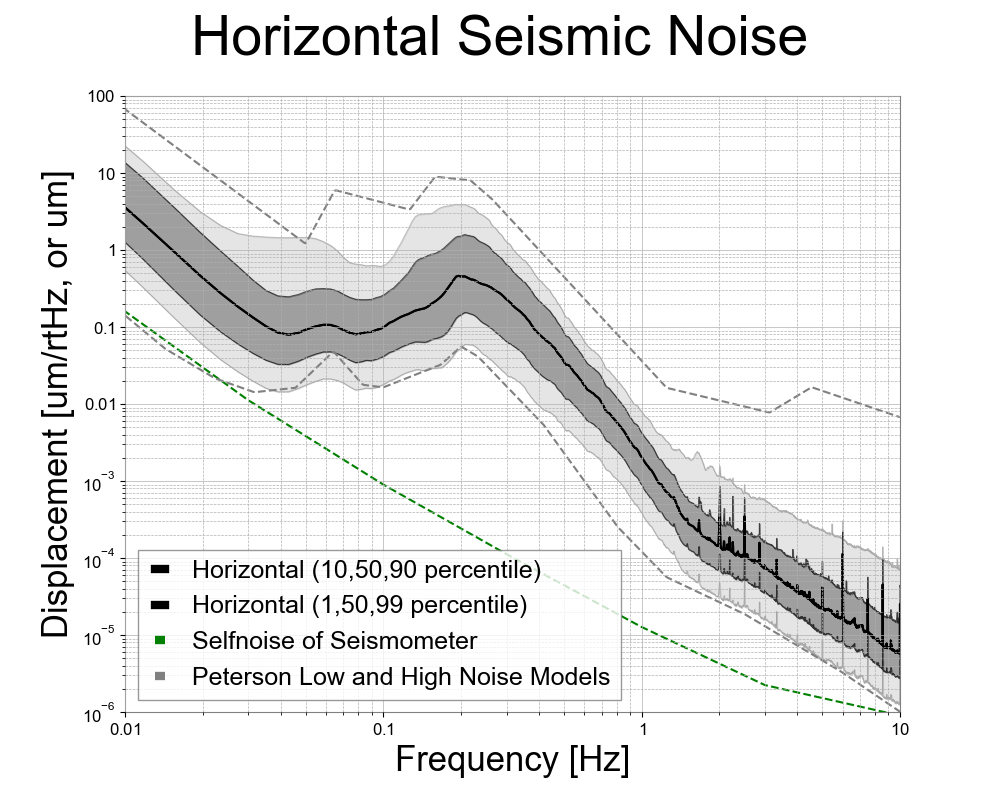
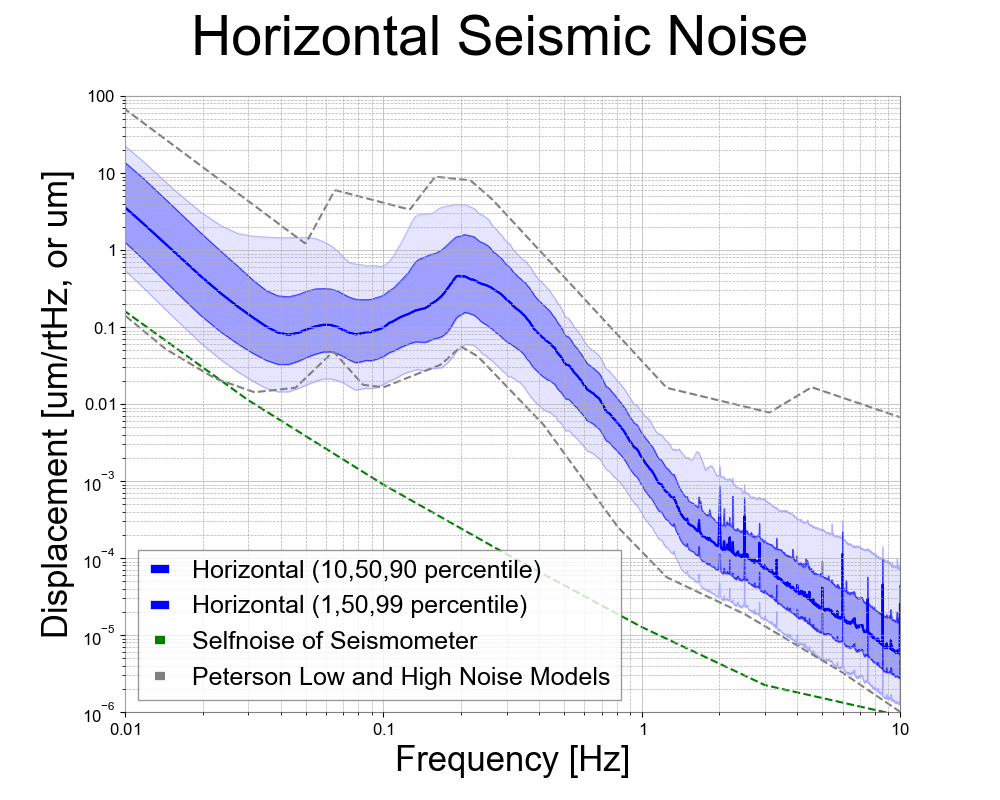
Update

Changed region(s): [[0.124, 0.1875, 0.899, 0.875], [0.155, 0.75, 0.186, 0.7812], [0.155, 0.6875, 0.186, 0.7188]]

diff --git a/ugm/seismicnoise/main2_seismicnoise.py b/ugm/seismicnoise/main2_seismicnoise.py
@@ -3,18 +3,33 @@ import matplotlib.pyplot as plt
 from gwpy.frequencyseries import FrequencySeries
 from gwpy.spectrogram import Spectrogram
 from miyopy.utils.trillium import Trillium
-from obspy.signal.spectral_estimation import get_nhnm, get_nlnm
 from gwpy.types.array2d import Array2D
 
 tr120 = Trillium('120QA')
 v2vel = tr120.v2vel    
 
+#------------------------------------------------------------
+def peterson_noise_model(unit='um'):
+    ''' Return spectral density of the new seismic model of 
+    Peterson using Obspy package.
 
-def peterson_noise_model(unit='um/sec'):
-    '''
-    Return 
+    This function just converts spectral density as a 
+    function of frequencies from a function of period and 
+    also changes unit of the spectral acording to given 
+    option.
     
+    Parameters
+    ----------
+    unit : `str`, optional
+        default is um.
+
+    Returns
+    -------
+    val : list of `list`
+        return the low noise model and the high noise model.
+
     '''
+    from obspy.signal.spectral_estimation import get_nhnm, get_nlnm    
     lt, ldb = get_nlnm()
     ht, hdb = get_nhnm()
     lfreq, lacc = 1./lt, 10**(ldb/20)*1e6
@@ -47,7 +62,6 @@ def _percentile(axis,pctl=50,unit='um',suffix='',_dir='LongTerm_gauss',**kwargs)
         raise ValueError('!!1')
     return asd
 
-
 def percentile(axis,**kwargs):
     if axis == 'H':
         x = _percentile('X',**kwargs)
@@ -58,24 +72,44 @@ def percentile(axis,**kwargs):
     else:
         raise ValueError('!!!')
 
+def mean(axis,**kwargs):
+    if axis == 'H':
+        x = _mean('X',**kwargs)
+        y = _mean('Y',**kwargs)
+        return  (x**2 + y**2)**0.5        
+    elif axis in ['X','Y','Z']:
+        return _mean(axis,**kwargs)
+    else:
+        raise ValueError('!!!')
+
+    
 def huge(axis,**kwargs):
     h01 = percentile(axis,pctl=1 ,**kwargs)
     h10 = percentile(axis,pctl=10,**kwargs)
     h50 = percentile(axis,pctl=50,**kwargs)
     h90 = percentile(axis,pctl=90,**kwargs)
     h99 = percentile(axis,pctl=99,**kwargs)
-    return h01,h10,h50,h90,h99
+    h   = percentile(axis,pctl='mean',**kwargs)
+    return h01,h10,h50,h90,h99,h
     
-def hoge(plot_v=False,plot_99=False,unit='um',peterson=True,plot_selfnoise=True,plot_rms=False,plot_h=False,fname_suffix='',day=False,night=False,**kwargs):
+def hoge(plot_v=False,plot_99=False,unit='um',peterson=True,plot_selfnoise=True,plot_rms=False,plot_h=False,fname_suffix='',day=False,night=False,season=False,**kwargs):
     #
     kwargs['unit'] = unit
     kwargs['suffix'] = '1211817600_1245372032'
-    h01,h10,h50,h90,h99 = huge('H',_dir='LongTerm_gauss',**kwargs)
-    z01,z10,z50,z90,z99 = huge('Z',_dir='LongTerm_gauss',**kwargs)
-    h01_n,h10_n,h50_n,h90_n,h99_n = huge('H',_dir='LongTerm_gauss_night',**kwargs)
-    z01_n,z10_n,z50_n,z90_n,z99_n = huge('Z',_dir='LongTerm_gauss_night',**kwargs)
-    h01_d,h10_d,h50_d,h90_d,h99_d = huge('H',_dir='LongTerm_gauss_day',**kwargs)
-    z01_d,z10_d,z50_d,z90_d,z99_d = huge('Z',_dir='LongTerm_gauss_day',**kwargs)        
+    h01,h10,h50,h90,h99,h             = huge('H',_dir='LongTerm_gauss',**kwargs)
+    z01,z10,z50,z90,z99,z             = huge('Z',_dir='LongTerm_gauss',**kwargs)
+    h01_n,h10_n,h50_n,h90_n,h99_n,h_n = huge('H',_dir='LongTerm_gauss_night',**kwargs)
+    z01_n,z10_n,z50_n,z90_n,z99_n,z_n = huge('Z',_dir='LongTerm_gauss_night',**kwargs)
+    h01_d,h10_d,h50_d,h90_d,h99_d,h_d = huge('H',_dir='LongTerm_gauss_day',**kwargs)
+    z01_d,z10_d,z50_d,z90_d,z99_d,z_d = huge('Z',_dir='LongTerm_gauss_day',**kwargs)
+    h01_1,h10_1,h50_1,h90_1,h99_1,h_1 = huge('H',_dir='LongTerm_gauss_spring',**kwargs)
+    z01_1,z10_1,z50_1,z90_1,z99_1,z_1 = huge('Z',_dir='LongTerm_gauss_spring',**kwargs)
+    h01_2,h10_2,h50_2,h90_2,h99_2,h_2 = huge('H',_dir='LongTerm_gauss_summer',**kwargs)
+    z01_2,z10_2,z50_2,z90_2,z99_2,z_2 = huge('Z',_dir='LongTerm_gauss_summer',**kwargs)
+    h01_3,h10_3,h50_3,h90_3,h99_3,h_3 = huge('H',_dir='LongTerm_gauss_autumn',**kwargs)
+    z01_3,z10_3,z50_3,z90_3,z99_3,z_3 = huge('Z',_dir='LongTerm_gauss_autumn',**kwargs)
+    h01_4,h10_4,h50_4,h90_4,h99_4,h_4 = huge('H',_dir='LongTerm_gauss_winter',**kwargs)
+    z01_4,z10_4,z50_4,z90_4,z99_4,z_4 = huge('Z',_dir='LongTerm_gauss_winter',**kwargs)
     #
     nlnm,nhnm = peterson_noise_model(unit=unit)
     selfnoise = tr120.selfnoise(unit=unit.replace('um','m'))*1e6
@@ -87,13 +121,19 @@ def hoge(plot_v=False,plot_99=False,unit='um',peterson=True,plot_selfnoise=True,
             color = 'b'
         else:
             plt.suptitle('Horizontal Seismic Noise',fontsize=40)                      
-            color = 'k'
-        if (not night ) and (not day):
+            color = 'b'
+        if (not night ) and (not day) and (not season):
             ax.plot_mmm(h50,h10,h90,label='Horizontal (10,50,90 percentile)',
                         color=color,alpha=0.3)
             if plot_99:
                 ax.plot_mmm(h50,h01,h99,label='Horizontal (1,50,99 percentile)',
-                            color=color,zorder=0,alpha=0.1)            
+                            color=color,zorder=0,alpha=0.1)
+        if season:
+            ax.plot_mmm(h50_1,h10_1,h90_1,zorder=0,alpha=0.2,label='Spring',color='b')
+            #ax.plot_mmm(h50_2,h10_2,h90_2,zorder=0,alpha=0.2,label='Summer')
+            #ax.plot_mmm(h50_3,h10_3,h90_3,zorder=0,alpha=0.2,label='Autumn')
+            ax.plot_mmm(h50_4,h10_4,h90_4,zorder=0,alpha=0.2,label='Winter',color='r') 
+            plt.suptitle('Spring vs. Winter (Horizontal)',fontsize=40)      
         if night:
             ax.plot_mmm(h50_n,h10_n,h90_n,label='Night (10,50,90 percentile)',
                         color='b',alpha=0.3)
@@ -110,13 +150,19 @@ def hoge(plot_v=False,plot_99=False,unit='um',peterson=True,plot_selfnoise=True,
             plt.suptitle('Horizontal vs. Vertical',fontsize=40)            
         else:
             plt.suptitle('Vertical Seismic Noise',fontsize=40)            
-            color = 'k'
-        if (not night) and (not day):
+            color = 'r'
+        if (not night) and (not day) and (not season):
             ax.plot_mmm(z50,z10,z90,label='Vertical (10,50,90 percentile)',
                         color=color,alpha=0.3)
             if plot_99:                
                 ax.plot_mmm(z50,z01,z99,label='Vertical (1,50,99 percentile)',
                             color=color,alpha=0.1)
+        if season:
+            ax.plot_mmm(z50_1,z10_1,z90_1,zorder=0,alpha=0.2,label='Spring',color='b')
+            #ax.plot_mmm(z50_2,z10_2,z90_2,zorder=0,alpha=0.2,label='Summer')
+            #ax.plot_mmm(z50_3,z10_3,z90_3,zorder=0,alpha=0.2,label='Autumn')
+            ax.plot_mmm(z50_4,z10_4,z90_4,zorder=0,alpha=0.2,label='Winter',color='r') 
+            plt.suptitle('Spring vs. Winter (Vertical)',fontsize=40)            
         if night:
             ax.plot_mmm(z50_n,z10_n,z90_n,label='Night (10,50,90 percentile)',
                         color='b',alpha=0.3)
@@ -162,3 +208,5 @@ if __name__ == '__main__':
         hoge(plot_v=False,plot_h=True, plot_99=True, fname_suffix='all_h_99')
         hoge(plot_h=True, day=True,night=True,fname_suffix='h_compare_day_vs_night')
         hoge(plot_v=True, day=True,night=True,fname_suffix='v_compare_day_vs_night')
+        hoge(plot_h=True, season=True,fname_suffix='h_compare_season')
+        hoge(plot_v=True, season=True,fname_suffix='v_compare_season')

diff --git a/ugm/seismicnoise/main2_PlotDataSegments.py b/ugm/seismicnoise/main2_PlotDataSegments.py
@@ -21,19 +21,50 @@ if args.start!=1211817600 or args.end!=1245372032:
     
 
 from dataquality.dataquality import DataQuality
+fmt_total = 'select startgps,endgps from {2} WHERE ' +\
+  '(startgps>={0} and endgps<={1})'
+fmt_lack = 'select startgps,endgps from {2} WHERE (flag=2 or flag=4) and' +\
+  '(startgps>={0} and endgps<={1})'
+fmt_lack_day   = 'select startgps,endgps from {2} WHERE (flag=2 or flag=4) and ' +\
+  '(startgps>={0} and endgps<={1}) and ' +\
+  '(((startgps-18)%86400)>=0) and (((startgps-18)%86400)<43200)'
+fmt_lack_night = 'select startgps,endgps from {2} WHERE (flag=2 or flag=4) and ' +\
+  '(startgps>={0} and endgps<={1}) and ' +\
+  '(((startgps-18)%86400)>=43200) and (((startgps-18)%86400)<86400)'  
+fmt_gauss = 'select startgps,endgps from {2} WHERE flag=0 and ' +\
+  '(startgps>={0} and endgps<={1})'
+fmt_gauss_day   = 'select startgps,endgps from {2} WHERE flag=0 and ' +\
+  '(startgps>={0} and endgps<={1}) and ' +\
+  '(((startgps-18)%86400)>=0) and (((startgps-18)%86400)<43200)'
+fmt_gauss_night = 'select startgps,endgps from {2} WHERE flag=0 and ' +\
+  '(startgps>={0} and endgps<={1}) and ' +\
+  '(((startgps-18)%86400)>=43200) and (((startgps-18)%86400)<86400)'
+fmt_nonegauss = 'select startgps,endgps from {2} WHERE flag=8 and ' +\
+  '(startgps>={0} and endgps<={1})'
+fmt_nonegauss_day   = 'select startgps,endgps from {2} WHERE flag=8 and ' +\
+  '(startgps>={0} and endgps<={1}) and ' +\
+  '(((startgps-18)%86400)>=0) and (((startgps-18)%86400)<43200)'
+fmt_nonegauss_night = 'select startgps,endgps from {2} WHERE flag=8 and ' +\
+  '(startgps>={0} and endgps<={1}) and ' +\
+  '(((startgps-18)%86400)>=43200) and (((startgps-18)%86400)<86400)'
+  
 with DataQuality('./dataquality/dqflag.db') as db:
-    total      = db.ask('select startgps,endgps from EXV_SEIS')
-    normal     = db.ask('select startgps,endgps from EXV_SEIS WHERE flag=0')
-    lack       = db.ask('select startgps,endgps from EXV_SEIS WHERE flag=2 or flag=4')
-    non_normal = db.ask('select startgps,endgps from EXV_SEIS WHERE flag=8')
-    use        = db.ask('select startgps,endgps from EXV_SEIS WHERE flag=0 ' +
-                        'and startgps>={0} and endgps<={1}'.format(args.start,args.end))
-
+    total = db.ask(fmt_total.format(args.start,args.end,'EXV_SEIS'))
+    lack = db.ask(fmt_lack.format(args.start,args.end,'EXV_SEIS'))
+    lack_day = db.ask(fmt_lack_day.format(args.start,args.end,'EXV_SEIS'))
+    lack_night = db.ask(fmt_lack_night.format(args.start,args.end,'EXV_SEIS'))    
+    gauss = db.ask(fmt_gauss.format(args.start,args.end,'EXV_SEIS'))
+    gauss_day   = db.ask(fmt_gauss_day.format(args.start,args.end,'EXV_SEIS'))
+    gauss_night = db.ask(fmt_gauss_night.format(args.start,args.end,'EXV_SEIS'))
+    nonegauss = db.ask(fmt_nonegauss.format(args.start,args.end,'EXV_SEIS'))
+    nonegauss_day   = db.ask(fmt_nonegauss_day.format(args.start,args.end,'EXV_SEIS'))
+    nonegauss_night = db.ask(fmt_nonegauss_night.format(args.start,args.end,'EXV_SEIS'))            
 plot_pi = True
 if plot_pi:
-    data = [len(normal),len(non_normal),len(lack)]
+    data = [len(gauss),len(nonegauss),len(lack)]
+    #data = [len(gauss_day),len(nonegauss_day),len(lack_day)]
+    #data = [len(gauss_night),len(nonegauss_night),len(lack_night)]
     label = ['Gaussian','Non-Gaussian','Lack of Data']
-    #fig,ax=plt.subplots(1,1,figsize=(7,3),subplot_kw=dict(aspect="equal"))
     fig,ax=plt.subplots(1,1,figsize=(7,3))
     wedges, texts, autotexts = ax.pie(data,startangle=90,counterclock=False,
                                       wedgeprops={'linewidth':1, 'edgecolor':"black"},
@@ -48,19 +79,22 @@ if plot_pi:
 plot_segmentlist = True
 if plot_segmentlist:
     fname = './results/segmentlist.png'
+    gauss,lack,nonegauss = gauss,lack,nonegauss
+    #gauss,lack,nonegauss = gauss_day,lack_day,nonegauss_day    
+    #gauss,lack,nonegauss = gauss_night,lack_night,nonegauss_night
     start, end = total[0][0],total[-1][1]
     from gwpy.segments import DataQualityFlag
-    normal = DataQualityFlag(name='Gaussian ({0})'.format(len(normal)),
-                             active=normal,
+    gauss = DataQualityFlag(name='Gaussian ({0})'.format(len(gauss)),
+                             active=gauss,
                              known=[(start,end)])
     lack = DataQualityFlag(name='Lack of Data ({0})'.format(len(lack)),
                            active=lack,
                            known=[(start,end)])
-    non_normal = DataQualityFlag(name='Non-Gaussian ({0})'.format(len(non_normal)),
-                                 active=non_normal,known=[(start,end)])
+    nonegauss = DataQualityFlag(name='Non-Gaussian ({0})'.format(len(nonegauss)),
+                                 active=nonegauss,known=[(start,end)])
     total = DataQualityFlag(name='Total ({0})'.format(len(total)),
                             active=total,known=[(start,end)])
-    args = normal,non_normal,lack,total
+    args = gauss,nonegauss,lack,total
     start = args[0].known[0].start
     end = args[0].known[0].end
     plot = args[0].plot(figsize=(14,5),epoch=start,xlim=(start,end))
